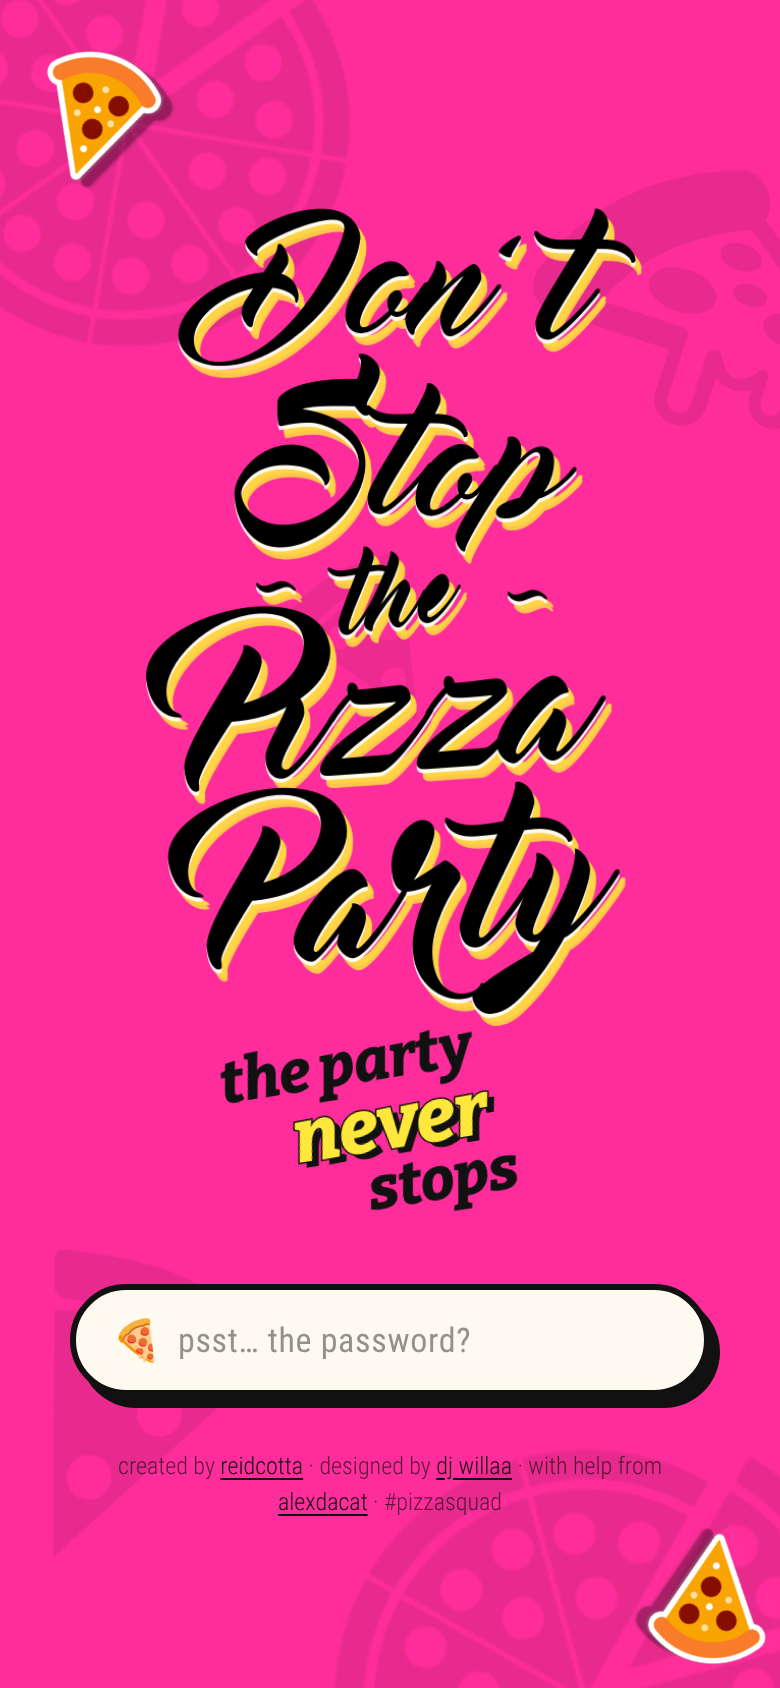
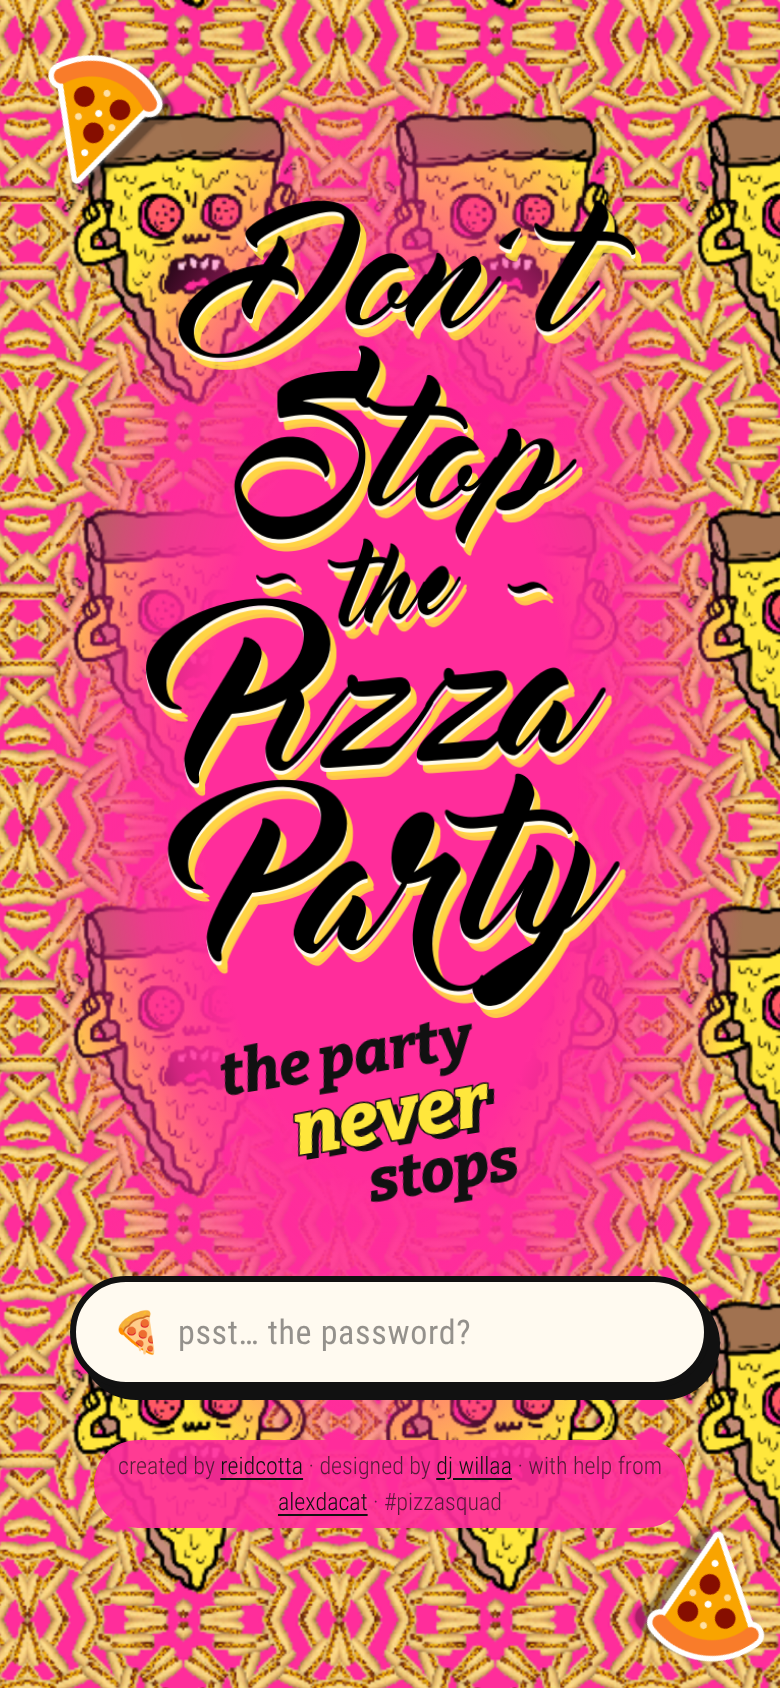
Hero: bring back the melting-pizza wallpaper
The old tiled pizza.gif returns as the hero background, edge to edge,
creeping one tile diagonally every 36s (seamless loop) and leaning
slightly with the mouse on desktop. A soft pink spotlight sits behind the
logo and tagline so they stay readable; the credits sit on a pink chip.
The faint black doodles go (the pattern is the texture now); the two
slice stickers stay. Still off under prefers-reduced-motion.

Claude-Session: https://claude.ai/code/session_01BUtFxh6bhKj94LRtZvhsyK

diff --git a/files/home.css b/files/home.css
@@ -35,23 +35,37 @@ body {
   --py: 0;
 }
 
-/* ---- the drifting doodles behind everything ---- */
-.dsp-doodles { position: absolute; inset: 0; pointer-events: none; }
-.dsp-doodle, .dsp-sticker {
+/* ---- the old melting-pizza wallpaper, creeping behind a pink spotlight ---- */
+.dsp-doodles { position: absolute; inset: 0; pointer-events: none; overflow: hidden; }
+.dsp-wallpaper {
+  position: absolute;
+  inset: -198px -156px;              /* one tile of slack each way, so the crawl never shows an edge */
+  background: url(/files/pizza.gif) 0 0 / 156px 198px repeat;
+  translate: calc(var(--px) * -14px) calc(var(--py) * -14px);
+  transition: translate 0.8s var(--spring);
+  animation: dsp-crawl 36s linear infinite;
+}
+@keyframes dsp-crawl {
+  from { transform: translate(0, 0); }
+  to   { transform: translate(156px, 198px); }   /* exactly one tile: seamless loop */
+}
+/* solid pink where the words are, the full insane pattern toward the edges */
+.dsp-spot {
+  position: absolute;
+  inset: 0;
+  background: radial-gradient(ellipse 46% 44% at 50% 47%,
+    var(--pink) 0%, var(--pink) 52%, rgba(255, 45, 155, 0.82) 70%, rgba(255, 45, 155, 0) 100%);
+}
+.dsp-sticker {
   position: absolute;
   display: block;
   height: auto;
+  width: clamp(64px, 11vmin, 120px);
+  filter: drop-shadow(4px 5px 0 rgba(0, 0, 0, 0.35));
   translate: calc(var(--px) * var(--depth, 20px)) calc(var(--py) * var(--depth, 20px));
   transition: translate 0.6s var(--spring);
-  animation: dsp-float var(--dur, 14s) ease-in-out infinite alternate;
+  animation: dsp-float var(--dur, 9s) ease-in-out infinite alternate;
 }
-.dsp-doodle { opacity: 0.09; }
-.d1 { top: -6%;  left: -14%; width: 62vmin; --depth: 18px; --dur: 17s; rotate: -12deg; }
-.d2 { top: 8%;   right: -16%; width: 48vmin; --depth: 30px; --dur: 13s; rotate: 18deg; }
-.d3 { bottom: 6%; left: -6%; width: 40vmin; --depth: 26px; --dur: 15s; rotate: 24deg; }
-.d4 { bottom: -18%; right: -10%; width: 70vmin; --depth: 14px; --dur: 19s; rotate: 8deg; }
-.d5 { top: 34%;  left: 38%; width: 22vmin; --depth: 40px; --dur: 11s; rotate: -30deg; opacity: 0.07; }
-.dsp-sticker { width: clamp(64px, 11vmin, 120px); filter: drop-shadow(4px 5px 0 rgba(0, 0, 0, 0.35)); --dur: 9s; }
 .s1 { top: 28px; left: 22px; rotate: -18deg; --depth: 46px; }
 .s2 { bottom: 14px; right: 10px; rotate: 152deg; --depth: 52px; --dur: 11s; }
 
@@ -144,6 +158,9 @@ body {
 .dsp-credits {
   position: relative;
   z-index: 2;
+  padding: 4px 12px;
+  border-radius: 999px;
+  background: rgba(255, 45, 155, 0.92);
   max-width: min(34em, 70vw);
   margin: 26px 0 0;
   color: rgba(17, 17, 17, 0.7);
@@ -159,5 +176,5 @@ body {
 }
 
 @media (prefers-reduced-motion: reduce) {
-  .dsp-doodle, .dsp-sticker, .dsp-logo, .dsp-tag span, .dsp-pill { animation: none; transition: none; }
+  .dsp-wallpaper, .dsp-sticker, .dsp-logo, .dsp-tag span, .dsp-pill { animation: none; transition: none; }
 }

diff --git a/index.html b/index.html
@@ -3,19 +3,17 @@ layout: default
 description: Where the pizza party dont stop!
 no_footer: true
 ---
-{% comment %} Homepage hero, after the pizzaandtechno.com hero: one hot colour, faint
-   floating doodles, a logo that pops in, a tilted stacked tagline, and the secret
-   word box as a fat pill. The old site lives on behind the word "nostalgia". {% endcomment %}
+{% comment %} Homepage hero, after the pizzaandtechno.com hero: the old melting-pizza
+   wallpaper creeping behind a pink spotlight, a logo that pops in, a tilted stacked
+   tagline, and the secret word box as a fat pill. The old site lives on behind the
+   word "nostalgia". {% endcomment %}
 <link href="https://fonts.googleapis.com/css2?family=Bitter:ital,wght@1,800&display=swap" rel="stylesheet">
-<link rel="stylesheet" href="/files/home.css?v=20261104a">
+<link rel="stylesheet" href="/files/home.css?v=20261104b">
 
 <main class="dsp-hero">
   <div class="dsp-doodles" aria-hidden="true">
-    <img class="dsp-doodle d1" src="/files/whole-pizza.png" alt="" width="200" height="200">
-    <img class="dsp-doodle d2" src="/files/pizza-icon.png" alt="" width="512" height="512">
-    <img class="dsp-doodle d3" src="/files/pizza-slice-black.png" alt="" width="200" height="200">
-    <img class="dsp-doodle d4" src="/files/whole-pizza.png" alt="" width="200" height="200">
-    <img class="dsp-doodle d5" src="/files/pizza-slice-black.png" alt="" width="200" height="200">
+    <div class="dsp-wallpaper"></div>
+    <div class="dsp-spot"></div>
     <img class="dsp-sticker s1" src="/files/pizza-slice.png" alt="" width="256" height="256">
     <img class="dsp-sticker s2" src="/files/pizza-slice.png" alt="" width="256" height="256">
   </div>
